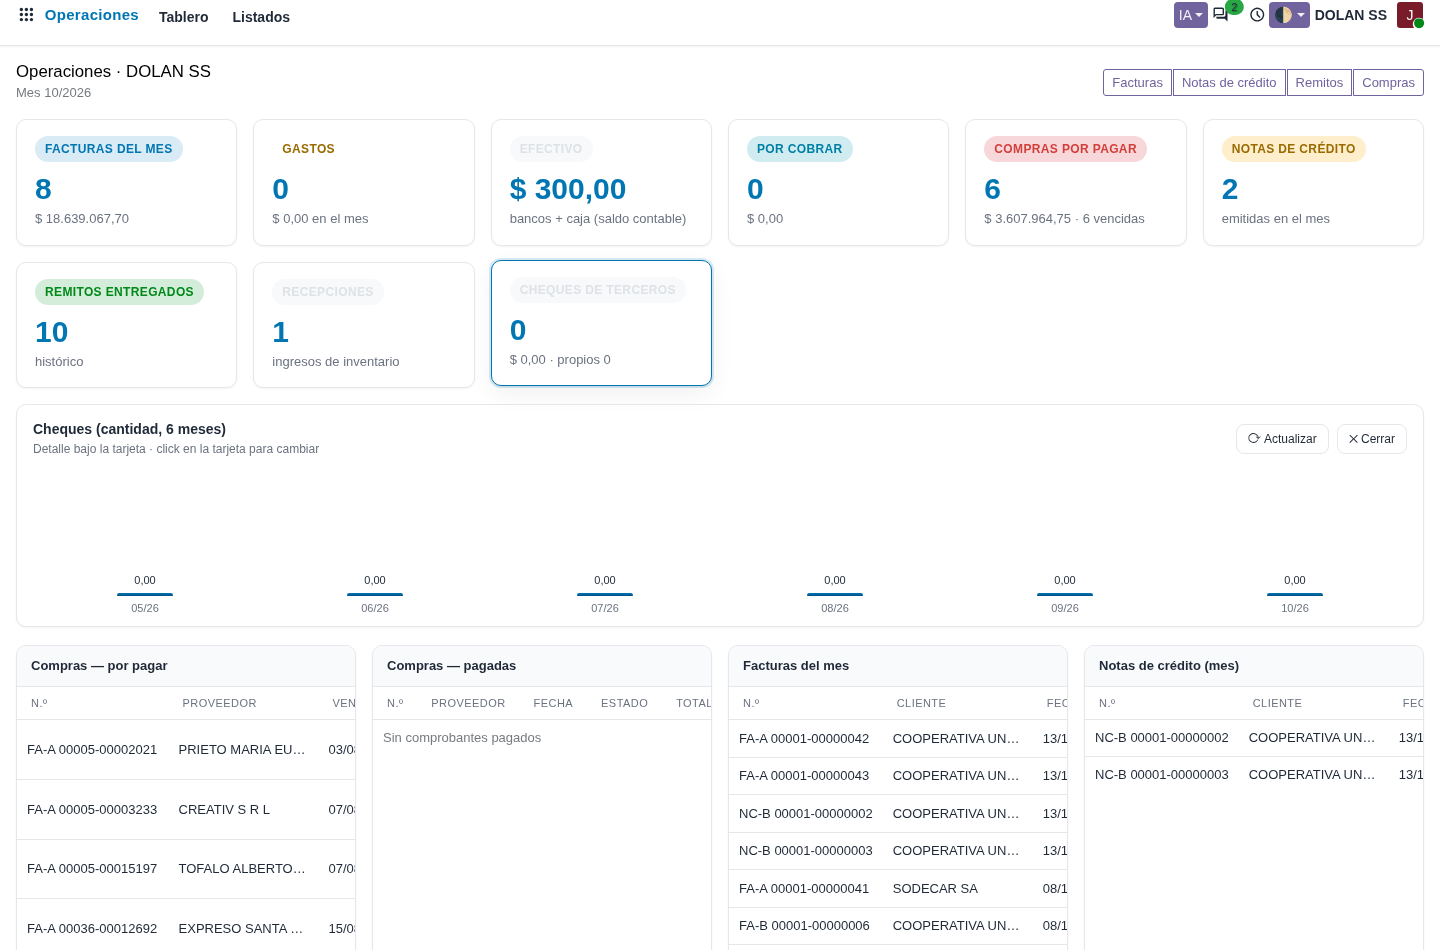
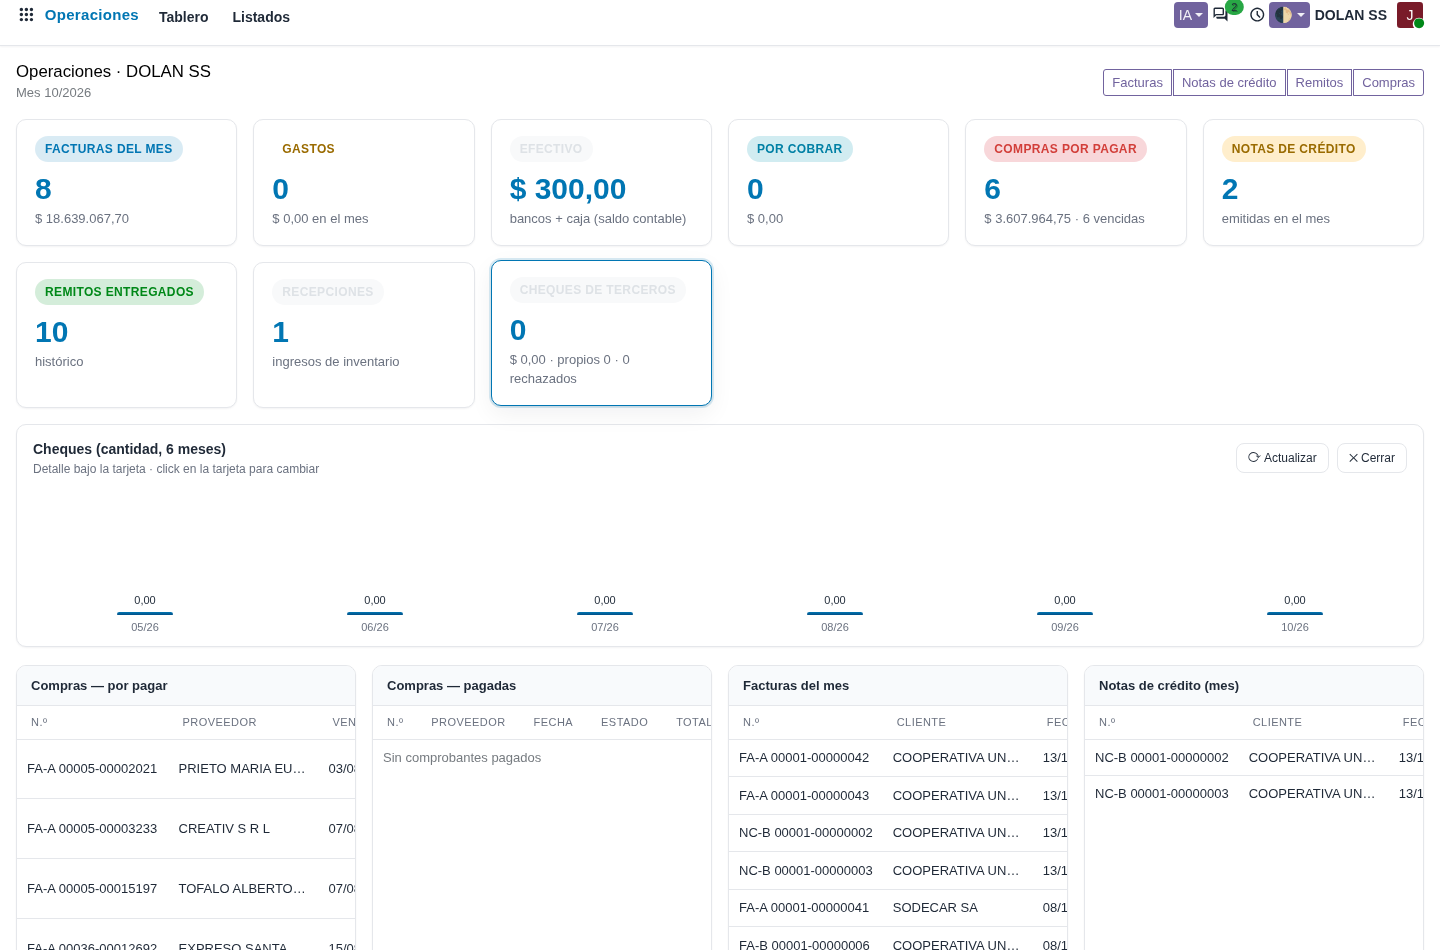
feat(installer): port l10n_latam_check_ux to Odoo 20 and install it
The module is now installed on the live database (exit 0) after a full
19->20 port: bank_id with an explicit comodel and its own compute (core
uses bank_account_id now), two dead overrides removed (their super() no
longer exists), explicit comodels for destination_journal_id/check_ids, the
mass-transfer wizard override retired (renamed API: to_journal_id,
company_ids/from_journal_id), view fixes (root <form position> removed,
bank_id target -> bank_account_id, payment domain simplified to
payment_method_code + company_id), report_file dropped from the report XML
and the obsolete override test set aside.

Verified: get_view() renders for l10n_latam.check and account.payment, the
check menus sit under Banco y Caja, and the QA suites stay green (6/6 and
22/22).

The whole port is reproducible: an idempotent L10N_CHECK_UX_19_TO_20 block
in crear_odoo20.sh (validated with bash -n, shellcheck -S error and a
no-diff pass over the already ported copy). Log L60.

diff --git a/odd/tasks/dolan-theme.md b/odd/tasks/dolan-theme.md
@@ -209,3 +209,16 @@ S7 (user, verbatim): "quiero que eliminemos la sidebar para lograr una experienc
 - **Gotchas Odoo 20**: `res.bank` eliminado del core; `account.payment` sin `ref` (el motivo va al asiento); `account.account` sin `company_id` filtrable (usar `with_company`); restricción `account_move_line_check_accountable_required_fields` exige cuentas en las líneas de pago.
 - **Installer**: `DOLAN_bancos_ar` y `DOLAN_retenciones` agregados a `CUSTOM_ADDONS` para que un deploy nuevo los incluya.
 - Risk: item 1/5 (datos fiscales y módulos nuevos) — las alícuotas son parámetro con advertencia explícita en el wizard, sin automatización fiscal, y todo verificado con asiento real y rollback.
+### L60 — `l10n_latam_check_ux` instalado en Odoo 20 (2026-10-31)
+- **Causa raíz completa del port** (todas verificadas en el stack vivo):
+  1. `bank_id` declarado sin comodel (`???` → AssertionError) → declarado con `"res.partner.bank"` + compute propio espejo del `_compute_bank_account_id` del core (el core 20 ya no tiene `bank_id`).
+  2. Dos overrides muertos (su `super()` no existe en 20.0): `_compute_available_destination_payment_method_line_ids` y `_prepare_paired_payment_values` → eliminados.
+  3. Comodels explícitos: `destination_journal_id` → `"account.journal"`, `check_ids` → `"l10n_latam.check"`.
+  4. Wizard de transferencia masiva retirado (API renombrada en 20.0: `destination_journal_id`→`to_journal_id`, `main_company_id`→`company_ids`/`from_journal_id`): archivo `.19`, fuera del manifest y de `wizards/__init__.py`.
+  5. Vistas: `<form position="attributes">` sobre la raíz (inválido) eliminado; objetivo `bank_id`→`bank_account_id`; dominio de `l10n_latam_move_check_ids` simplificado (sin `destination_journal_id`/`is_internal_transfer`, campos que ya no existen) usando sólo `payment_method_code` + `company_id`.
+  6. `report_file` eliminado de `ir.actions.report` → quitado de `report_checks_to_date.xml`.
+  7. Test de los overrides retirados (`.19`) + import fuera de `tests/__init__.py`.
+- **Verificación**: `install exit=0`; `get_view()` de `l10n_latam.check` (3.796 b) y `account.payment` (18.552 b) OK; menús Cheques de Terceros/Propios re-padreados en "Banco y Caja"; suites **6/6** y **22/22** sin regresiones.
+- **Reproducible**: bloque `L10N_CHECK_UX_19_TO_20` en `crear_odoo20.sh` (idempotente, validado con diff=0 sobre el copy portado; sintaxis `bash -n` + `shellcheck -S error` 0); corre con cwd `addons` dentro del bloque correcto.
+- **Gotcha**: el log de esos fallos va al **host** (`--logfile=`) y no al contenedor; leer siempre `/tmp/<run>.log`.
+- Risk: item 5 (módulo externo portado e instalado) — instalación + render de vistas + 2 suites de regresión; el wizard de transferencia masiva queda en versión core (nuestros extras, retirados) y 7 tests quedaron fuera de carrera por depender de la API vieja.
